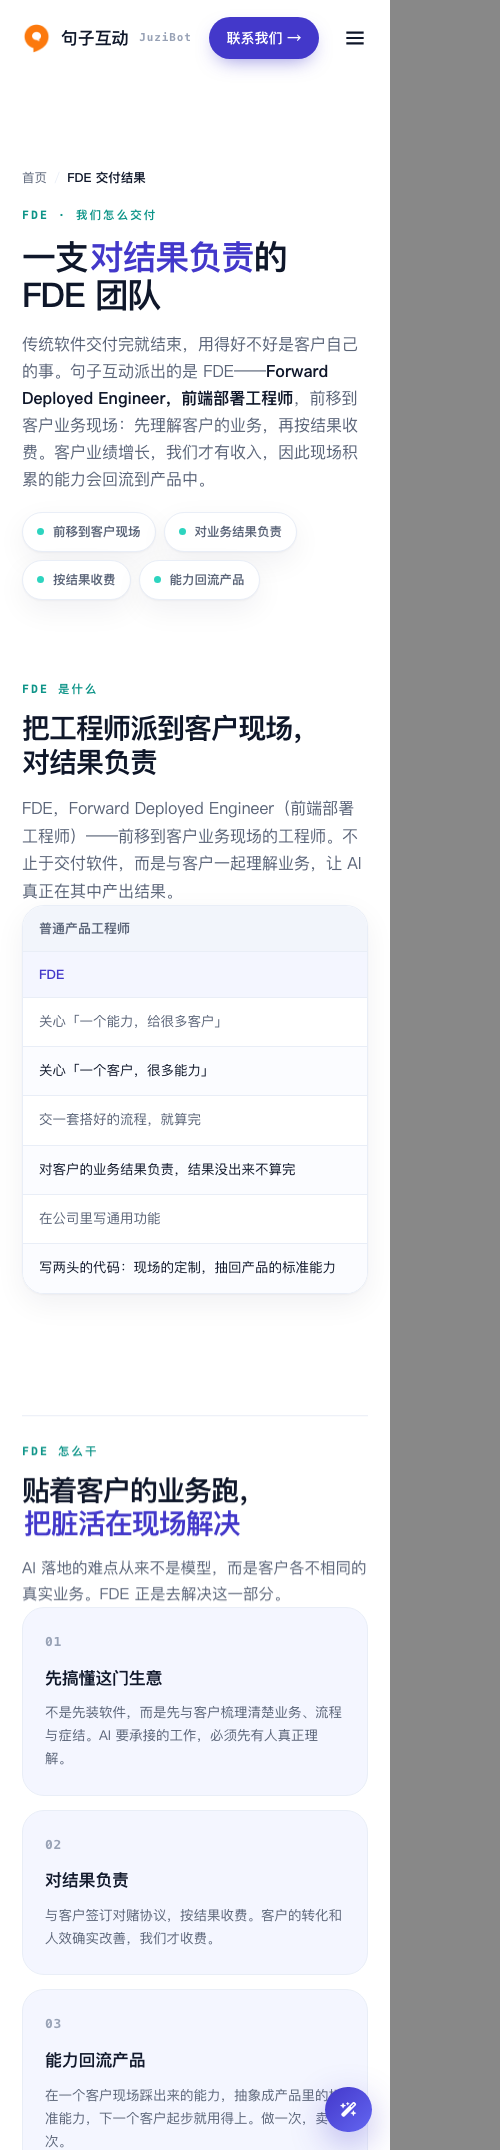
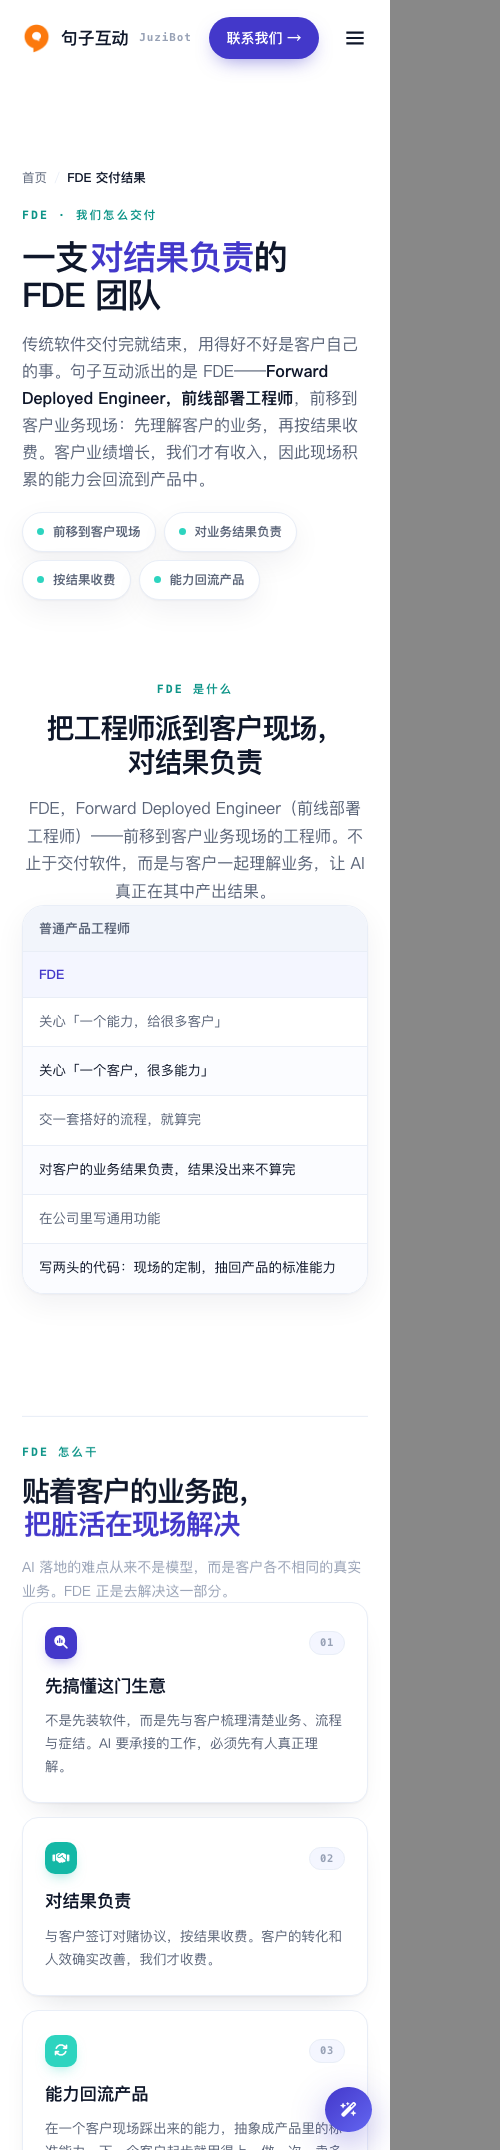
fix: 按 #92 评论统一 FDE 译名为「前线部署工程师」；更新大修实拍图
- fde.html 三处、index.html 一处：前端部署工程师 → 前线部署工程师
  （佳芮在 PR #92 的评论裁决；build_pages.py 已废弃不改）
- docs/pr-notes-news.md 的 fde 实拍换成继承 #92 视觉升级后的版本，
  排版修复（语义断行 + 标题字号）与新视觉叠加生效

diff --git a/fde.html b/fde.html
@@ -4,7 +4,7 @@
 <meta charset="UTF-8" />
 <meta name="viewport" content="width=device-width, initial-scale=1.0, viewport-fit=cover" />
 <title>FDE 交付结果 · 对结果负责的工程师 | 句子互动</title>
-<meta name="description" content="FDE（Forward Deployed Engineer，前端部署工程师）——前移到客户业务现场的工程师团队。不只装软件，对客户的业务结果负责：先搞懂这门生意，按结果收费，把现场踩出来的能力回流成产品。" />
+<meta name="description" content="FDE（Forward Deployed Engineer，前线部署工程师）——前移到客户业务现场的工程师团队。不只装软件，对客户的业务结果负责：先搞懂这门生意，按结果收费，把现场踩出来的能力回流成产品。" />
 <link rel="icon" href="logo.png" />
 <link rel="stylesheet" href="https://cdn.jsdelivr.net/npm/@fortawesome/fontawesome-free@6.5.2/css/all.min.css" crossorigin="anonymous" referrerpolicy="no-referrer" />
 <link rel="stylesheet" href="assets/site.css" />
@@ -202,7 +202,7 @@
         </nav>
         <span class="sec-eyebrow">FDE · 我们怎么交付</span>
         <h1><span class="nw">一支<span class="hl"><span>对结果负责</span></span>的</span> <span class="nw">FDE 团队</span></h1>
-        <p class="lede">传统软件交付完就结束，用得好不好是客户自己的事。句子互动派出的是 FDE——<strong>Forward Deployed Engineer，前端部署工程师</strong>，前移到客户业务现场：先理解客户的业务，再按结果收费。客户业绩增长，我们才有收入，因此现场积累的能力会回流到产品中。</p>
+        <p class="lede">传统软件交付完就结束，用得好不好是客户自己的事。句子互动派出的是 FDE——<strong>Forward Deployed Engineer，前线部署工程师</strong>，前移到客户业务现场：先理解客户的业务，再按结果收费。客户业绩增长，我们才有收入，因此现场积累的能力会回流到产品中。</p>
         <div class="fde-pills">
           <span class="fde-pill"><span class="dot"></span>前移到客户现场</span>
           <span class="fde-pill"><span class="dot"></span>对业务结果负责</span>
@@ -219,7 +219,7 @@
       <div class="sec-head rv">
         <span class="sec-eyebrow">FDE 是什么</span>
         <h2><span class="nw">把工程师派到客户现场，</span><span class="nw">对结果负责</span></h2>
-        <p class="sub">FDE，Forward Deployed Engineer（前端部署工程师）——前移到客户业务现场的工程师。不止于交付软件，而是与客户一起理解业务，让 AI 真正在其中产出结果。</p>
+        <p class="sub">FDE，Forward Deployed Engineer（前线部署工程师）——前移到客户业务现场的工程师。不止于交付软件，而是与客户一起理解业务，让 AI 真正在其中产出结果。</p>
       </div>
       <div class="fde-cmp rv rv-d1" style="margin:0 auto">
         <div class="cmp-row">

diff --git a/index.html b/index.html
@@ -1856,7 +1856,7 @@ html{overflow-x:clip}
     <div class="sec-head rv">
       <span class="sec-eyebrow">FDE · 我们怎么交付</span>
       <h2>一个团队，懂生意也懂 AI，<span class="hl"><span>对结果负责</span></span>。</h2>
-      <p class="sub">大模型本身不会直接变成业务生产力——中间缺的是把模型真正嵌入业务流程的角色。句子互动派出 FDE（Forward Deployed Engineer，前端部署工程师）团队补上这一层：以七大产品基建为支撑，把 AI 嵌入客户的真实业务，对最终的业务结果负责。</p>
+      <p class="sub">大模型本身不会直接变成业务生产力——中间缺的是把模型真正嵌入业务流程的角色。句子互动派出 FDE（Forward Deployed Engineer，前线部署工程师）团队补上这一层：以七大产品基建为支撑，把 AI 嵌入客户的真实业务，对最终的业务结果负责。</p>
     </div>
     <div class="fde-flow" id="fdeFlow">
       <div class="fde-stepper" id="fdeStepper" role="group" aria-label="FDE 四步交付 · 步骤导航">

diff --git a/docs/pr-notes-news.md b/docs/pr-notes-news.md
@@ -2,7 +2,7 @@
 
 > 预览环境：stage-2 · 新增 5 个文件 + 6 个既有文件小改（净增 16 行）· 三个版式并行试验中
 
-> **2026-07-21 大修**：①三版收敛为两版——列表版 B 的二级分类、最近更新侧卡、展开收起并入聚合版，`news-b.html` 删除；②数据管线加 **AI 筛选层**（本机 claude CLI 批量判定，结果持久化）：博客只上与公司相关的文章（动态页不再强化创始人，110 篇留 37 篇），行业源只留 AI 相关内容（92 条留 45 条，股市快讯等噪音出局）；③行业源从 36氪一路扩到 **36氪 / 量子位 / 钛媒体** 三路，媒体名做二级分类；④顺手修了 `fde.html` 的字号与中文标题断行。下文一、二节的三版结构与旧来源名保留作历史记录，最新截图见文末「大修实拍」。
+> **2026-07-21 大修**：①三版收敛为两版——列表版 B 的二级分类、最近更新侧卡、展开收起并入聚合版，`news-b.html` 删除；②数据管线加 **AI 筛选层**（本机 claude CLI 批量判定，结果持久化）：博客只上与公司相关的文章（动态页不再强化创始人，110 篇留 37 篇），行业源只留 AI 相关内容（92 条留 45 条，股市快讯等噪音出局）；③行业源从 36氪一路扩到 **36氪 / 量子位 / 钛媒体** 三路，媒体名做二级分类；④顺手修了 `fde.html` 的字号与中文标题断行；⑤合并继承了 PR #92 的 FDE 页与 7 个 AI 员工页视觉升级（人物海报 hero + 卡片体系对齐首页），并按佳芮在 #92 的评论把 FDE 译名统一为「前线部署工程师」（fde.html + 首页）。下文一、二节的三版结构与旧来源名保留作历史记录，最新截图见文末「大修实拍」。
 
 **为什么做**：官网一直缺一个"活"的板块——页面都是静态介绍，访客看不到这家公司每天在想什么、做什么。这个板块把三路内容自动汇成一条按时间排的流：创始人李佳芮在写的（rui.juzi.bot 专栏 110+ 篇）、公众号在发的、行业在发生的（36氪）。每条都能点去原文，也能按住 ⌘K 直接拿这条内容"问句子"。
 
@@ -76,7 +76,7 @@ C 版（齐思式聚合，按月分组）：
 
 ![](pr-shots-news/c-desktop-v2.png)
 
-fde.html 排版修复前（hero 断出「的」字开头的行，「FDE 是什么」标题跌回浏览器默认 24px）→ 修复后（断行落在语义边界，小节标题与全页节奏统一）：
+fde.html 排版修复前（hero 断出「的」字开头的行，「FDE 是什么」标题跌回浏览器默认 24px）→ 修复后（断行落在语义边界，小节标题与全页节奏统一；已叠加 PR #92 的视觉升级与「前线部署工程师」译名）：
 
 ![](pr-shots-news/fde-desktop-before.png)
 